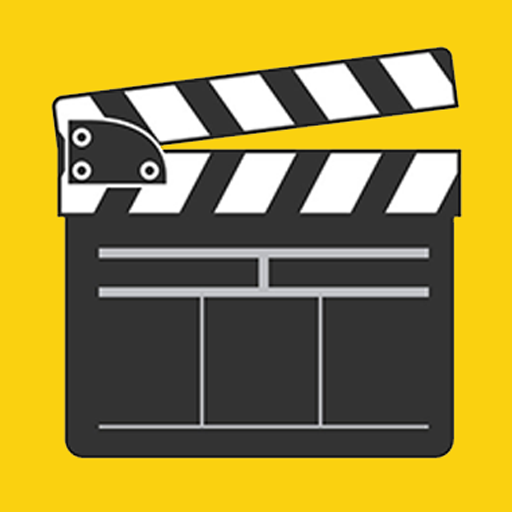
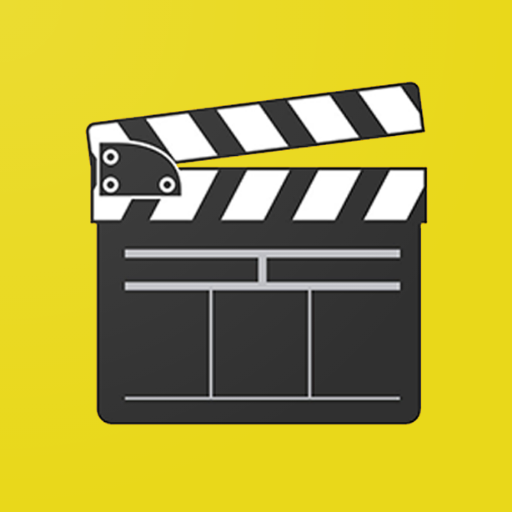
actualizando el icono del luncher

diff --git a/README.md b/README.md
@@ -19,3 +19,6 @@ A Flutter project to see movies info ONLY from [Themoviedb Api](www.themoviedb.o
 4. flutter devices
 5. flutter create web_app
 6. flutter run -d chrome (run project on chrome)
+
+- icon generator
+  https://romannurik.github.io/AndroidAssetStudio/icons-launcher.html
